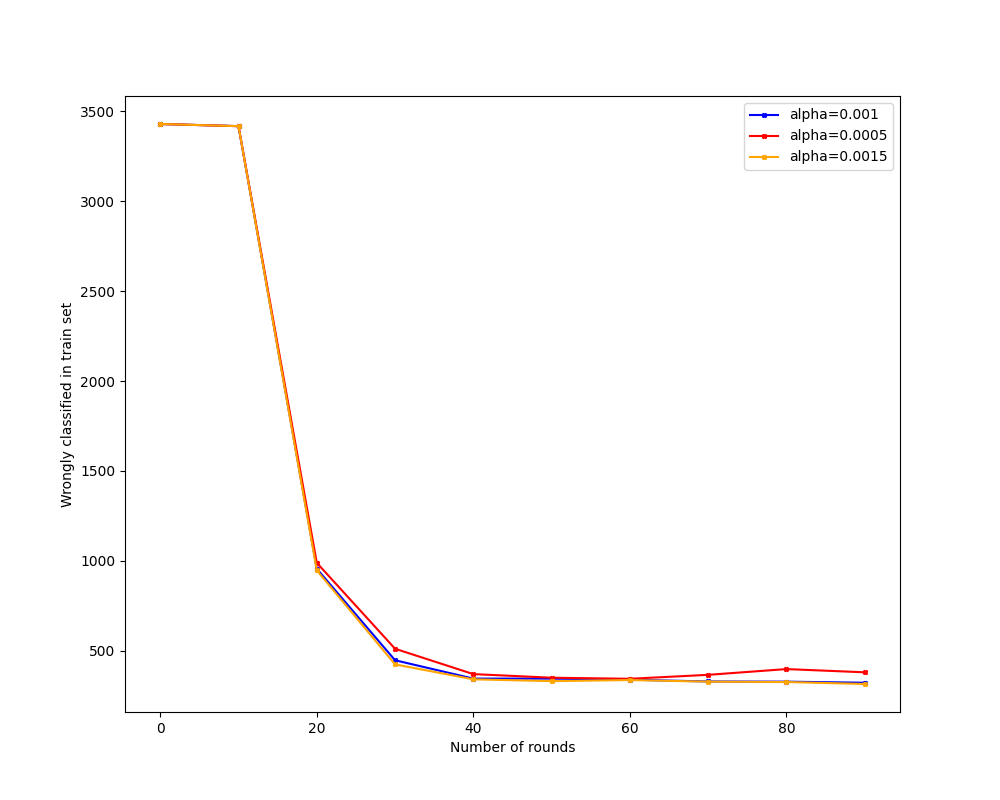
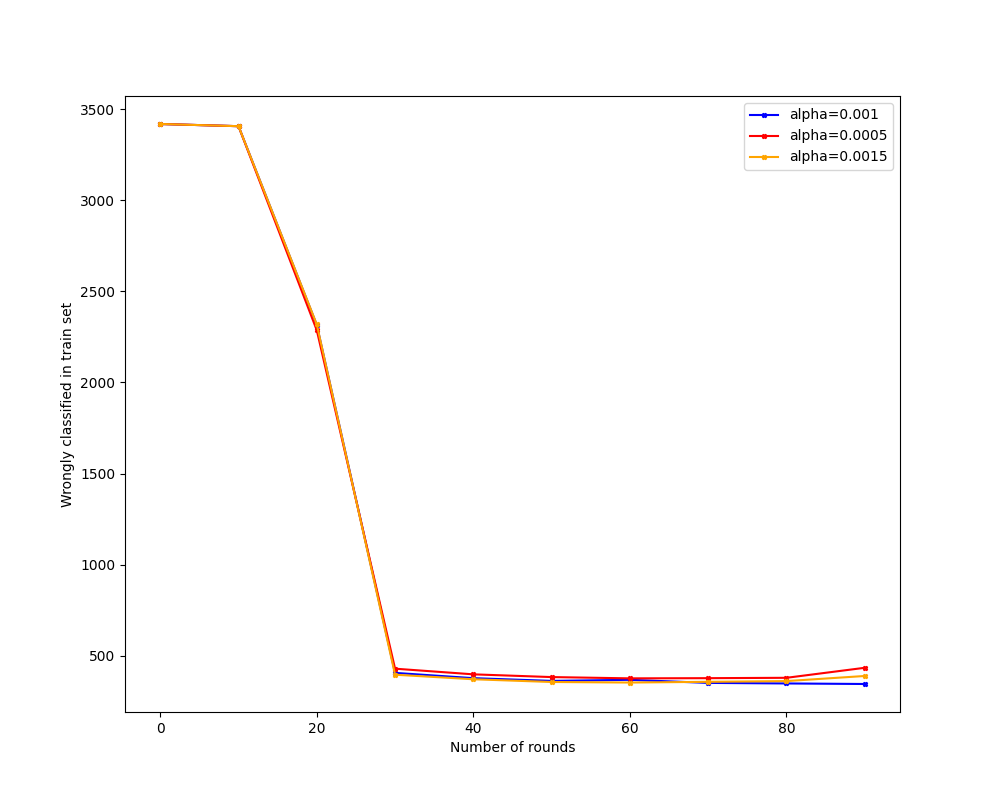
Added mini batch hinge loss svm

diff --git a/src/url_classification.py b/src/url_classification.py
@@ -1,6 +1,7 @@
 import scipy.io
 import numpy as np
 import matplotlib.pyplot as plt
+import random, itertools
 
 from iris_classification import timing
 
@@ -14,17 +15,28 @@ def parse_url(filename="data/url.mat", day =1):
 
 @timing
 def split_dataset(X, y, frac=0.5):
-    rng = np.random.default_rng(1)
-    split_choice = rng.choice(y.shape[0], size= (int(y.shape[0] * frac),), replace=False)
+    """
+    Scipy has not build in way to shuffle on sparse matrices, like numpy.
+    So instead we pick random incides, and create a masking over the Sparse array.
+    """
+    split_choice = np.random.choice(y.shape[0], size= (int(y.shape[0] * frac),), replace=False)
     split_mask = np.zeros_like(y, dtype=bool)
     split_mask[split_choice] = 1
     return X[~split_mask], X[split_mask], y[~split_mask], y[split_mask]
 
 @timing
 def hinge_loss_gd(X_train, y_train, alpha=0.001, N=100, reg=1):
+    """
+    Hinge loss gradient descent for a SVM.
+    Each iteration the status indicates the samples, which are classified wrong.
+    This is used to mask the array before summing it for the direction.
+
+    CSR seems to be the fastest of the scipy.sparse arrays.
+    """
     w = np.zeros(X_train.shape[1])
     status = np.ones_like(y_train)
-    yX = X_train * y_train[:, None] #This only needs to be calculated once.
+    yX = (X_train * y_train[:, None]).tocsr() #This only needs to be calculated once.
+
     num_wrong = []
     for i in range(N):
         direction = (status[:, None] * yX).sum(axis=0)
@@ -33,6 +45,44 @@ def hinge_loss_gd(X_train, y_train, alpha=0.001, N=100, reg=1):
         if i%10==0:num_wrong.append(status.sum())
 
     return w, num_wrong
+
+@timing
+def hinge_loss_bgd(X_train, y_train, alpha=0.001, batch_size=100, epochs=10, reg=None):
+    """
+    Mini-batch hinge loss gradient descent for a SVM.
+    Each epoch the data is split in random batches 
+    and then the status is used in the same as in the version without bacthes.
+
+    CSR seems to be the fastest of the scipy.sparse arrays.
+    """
+    if reg is None:
+        reg = 1/epochs
+
+    w = np.zeros(X_train.shape[1])
+    yX = (X_train * y_train[:, None]).tocsr() #This only needs to be calculated once.
+    num_wrong = []
+    for epoch in range(epochs):
+        batches = batch_split(yX, batch_size=batch_size)
+        for batch in batches:
+            status = (batch @ w) < 1
+            direction = (status[:, None] * batch).sum(axis=0)
+            w = (1 - alpha * reg) * w + alpha * direction
+        
+        num_wrong.append(((yX @ w) < 1).sum())
+    return w, num_wrong
+
+# Creates a generator that gives a random batch with fixed size.
+def batch_split(X, batch_size):
+    random_shuffle = np.random.choice(X.shape[0], size=X.shape[0], replace=False)
+    for i in range(0, X.shape[0], batch_size):
+        yield X[random_shuffle[i: i + batch_size]]
+
+
+def parameter_sampling(parameters):
+    random_choices = [[random.uniform(v[1], v[2]) for _ in range(v[0])] for v in parameters.values()]
+    print(random_choices)
+    for r in itertools.product(*random_choices):
+        yield dict(zip(parameters.keys(), r))
 
 def test_alpha_convergence():
     X, y = parse_url(day=1)
@@ -67,6 +117,27 @@ def test_alpha_convergence():
     plt.legend()
     plt.savefig("alphagraph.png")
 
+def test_mini_batch_convergence():
+    pars = parameter_sampling({
+        "alpha":(5, 0.0001, 0.005),
+        "reg":(5, 0.01, 1),
+    })
+    
+    X, y = parse_url(day=1)
+    X = scipy.sparse.csr_array(X)
+    X_train, X_test, y_train, y_test = split_dataset(X, y)
+
+    weights_hl, num_wrong_001 = hinge_loss_bgd(X_train, y_train, alpha=0.001, batch_size=X_train.shape[0]//15, epochs=10, reg=None)
+    weights_hl, num_wrong_0005 = hinge_loss_bgd(X_train, y_train, alpha=0.0005, batch_size=X_train.shape[0]//15, epochs=10, reg=None)
+    weights_hl, num_wrong_0015 = hinge_loss_bgd(X_train, y_train, alpha=0.0015, batch_size=X_train.shape[0]//15, epochs=10, reg=None)
+    weights_hl, num_wrong_002 = hinge_loss_bgd(X_train, y_train, alpha=0.002, batch_size=X_train.shape[0]//15, epochs=10, reg=None)
+    print(num_wrong_001)
+    print(num_wrong_0005)
+    print(num_wrong_0015)
+    print(num_wrong_002)
+
 if __name__ == "__main__":
-    test_alpha_convergence()
+    np.random.default_rng(1)
+    # test_alpha_convergence()
+    test_mini_batch_convergence()
     
